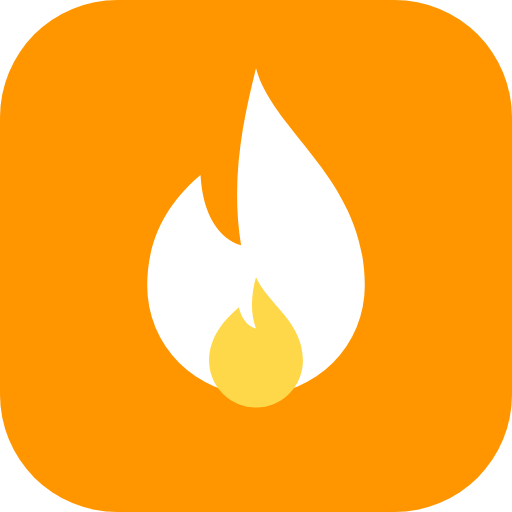
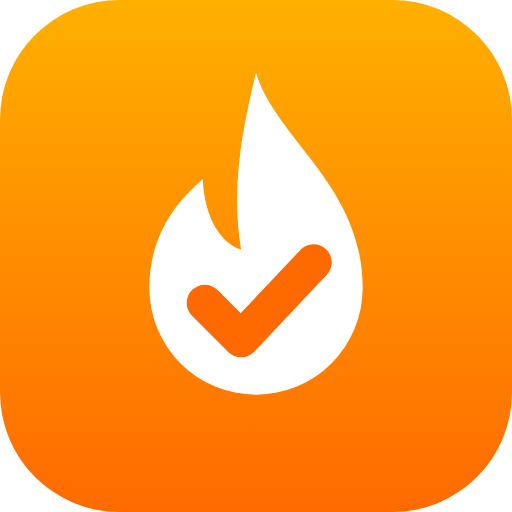
v2.1.1: nuevo icono (llama con check)
Claude-Session: https://claude.ai/code/session_01M5DfBew8iUcT59nJKy4Lje

diff --git a/sw.js b/sw.js
@@ -1,6 +1,6 @@
 // Guarda la app en el teléfono para que abra sin internet.
 // La página se pide a la red primero (así llegan las versiones nuevas) y, sin red, sale de la caché.
-const CACHE = 'habitos-v2.1.0';
+const CACHE = 'habitos-v2.1.1';
 const CORE = ['./', './index.html', './manifest.webmanifest', './icon.svg', './icon-192.png', './icon-512.png', './icon-maskable-512.png'];
 
 self.addEventListener('install', e => {

diff --git a/index.html b/index.html
@@ -431,7 +431,7 @@
 
 <script>
 const KEY = 'habit-tracker-v1';
-const APP_VERSION = '2.1.0';
+const APP_VERSION = '2.1.1';
 const ALL_DAYS = [0, 1, 2, 3, 4, 5, 6], DAY_L = ['L', 'M', 'X', 'J', 'V', 'S', 'D'];
 const $ = s => document.querySelector(s);
 const esc = s => String(s ?? '').replace(/[&<>"']/g, c => ({'&':'&amp;','<':'&lt;','>':'&gt;','"':'&quot;',"'":'&#39;'}[c]));
